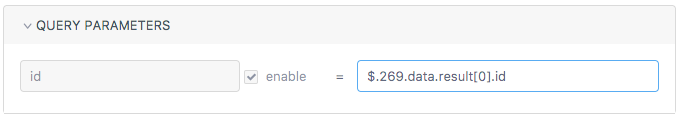
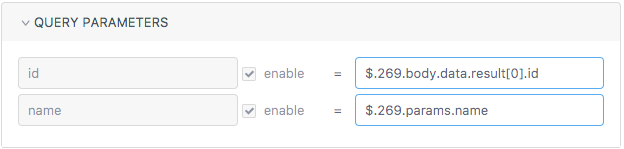
docs: 测试集合的文档

diff --git a/static/doc/case.html b/static/doc/case.html
@@ -170,15 +170,25 @@
 <p>测试完成之后，点击报告查看该次请求的结果</p>
 <h2 class="subject" id="编辑测试用例">编辑测试用例 <a class="hashlink" href="#编辑测试用例">#</a></h2><h3 class="subject" id="Mock参数">Mock参数 <a class="hashlink" href="#Mock参数">#</a></h3><p>Mock 参数每次请求都会生成随机字符串</p>
 <p><img  class="doc-img" style="width:100%" src="./images/usage/case-edit.jpg"  /></p>
-<h4 class="subject" id="变量参数">变量参数 <a class="hashlink" href="#变量参数">#</a></h4><p>YApi 提供了强大的变量参数功能，你可以在测试的时候使用 <code>前面接口的返回值</code> 作为 <code>后面接口的参数</code>，即使接口之间存在依赖，也可以 <strong>一键测试~</strong></p>
-<p>例如：现有两个接口，分别是“导航标题”和“文章列表”</p>
-<p><img class="doc-img" style="width: 678px;" src="./images/usage/case_key_list.png" /></p>
+<h4 class="subject" id="变量参数">变量参数 <a class="hashlink" href="#变量参数">#</a></h4><p>YApi 提供了强大的变量参数功能，你可以在测试的时候使用前面接口的 <code>参数</code> 或 <code>返回值</code> 作为 <code>后面接口的参数</code>，即使接口之间存在依赖，也可以 <strong>一键测试~</strong></p>
+<p>格式：</p>
+<pre><code>$.<span class="token punctuation">{</span>key<span class="token punctuation">}</span>.<span class="token punctuation">{</span>params|body<span class="token punctuation">}</span>.<span class="token punctuation">{</span>path<span class="token punctuation">}</span>
+</code></pre><p>例如：现有两个接口，分别是“导航标题”和“文章列表”
+<img class="doc-img" style="width: 678px;" src="./images/usage/case_key_list.png" /></p>
 <p>文章列表接口需要传参数: <code>当前标题(id)</code>，而这个 id 需要通过 <code>导航标题</code> 的返回值获取，这时应在 <code>文章列表</code> 的参数输入框中根据前者的 key 找到对应 id。</p>
-<p><code>导航标题</code> 的返回值：
-<img class="doc-img" style="width: 122px;" src="./images/usage/case_key_res.png" /></p>
-<p><code>文章列表</code> 的参数配置：
-<img  class="doc-img" style="width: 682px;" src="./images/usage/case_key_query.png" />
-$. 是使用动态变量的标志，<strong>$.269 即表示 key 值为 269 的用例返回的数据</strong>。</p>
+<p><code>导航标题</code> 的参数和返回值有如下结构：</p>
+<div style="margin: 16px 0;">
+  <span style="display: inline-block; width: 60px;vertical-align: top;">参数：</span>
+  <img style="width: 165px;" src="./images/usage/case_key_res_query.png" />
+</div>
+<div style="margin: 16px 0;">
+  <span style="display: inline-block; width: 60px;vertical-align: top;">返回值：</span>
+  <img style="width: 122px;" src="./images/usage/case_key_res.png" />
+</div>
+
+<p>则 <code>文章列表</code> 的参数可以如下配置：
+<img  class="doc-img" style="width: 624px;" src="./images/usage/case_key_query.png" /></p>
+<p>其中 <strong>$.</strong> 是使用 <strong>动态变量</strong> 的标志，$.269.<strong>params</strong> 即表示 key 值为 269 用例的请求参数，$.269.<strong>body</strong> 即表示 key 值为 269 用例的返回值。</p>
 <blockquote>
 <p>Tips: 上下拖动测试集合的列表项可以调整测试的顺序。</p>
 </blockquote>

diff --git a/static/doc/api.html b/static/doc/api.html
@@ -3048,7 +3048,7 @@
     
     <p>
         <small class="text-muted">源码位置:</small>
-        <a href="./static/server/controllers/project.js.html#624" target="_blank">./server/controllers/project.js:624</a>
+        <a href="./static/server/controllers/project.js.html#625" target="_blank">./server/controllers/project.js:625</a>
     </p>
     
     
@@ -3140,7 +3140,7 @@
     
     <p>
         <small class="text-muted">源码位置:</small>
-        <a href="./static/server/controllers/project.js.html#674" target="_blank">./server/controllers/project.js:674</a>
+        <a href="./static/server/controllers/project.js.html#675" target="_blank">./server/controllers/project.js:675</a>
     </p>
     
     
@@ -4502,7 +4502,7 @@
     
     <p>
         <small class="text-muted">源码位置:</small>
-        <a href="./static/server/controllers/interfaceCol.js.html#159" target="_blank">./server/controllers/interfaceCol.js:159</a>
+        <a href="./static/server/controllers/interfaceCol.js.html#162" target="_blank">./server/controllers/interfaceCol.js:162</a>
     </p>
     
     
@@ -4684,7 +4684,7 @@
     
     <p>
         <small class="text-muted">源码位置:</small>
-        <a href="./static/server/controllers/interfaceCol.js.html#299" target="_blank">./server/controllers/interfaceCol.js:299</a>
+        <a href="./static/server/controllers/interfaceCol.js.html#302" target="_blank">./server/controllers/interfaceCol.js:302</a>
     </p>
     
     
@@ -4854,7 +4854,7 @@
     
     <p>
         <small class="text-muted">源码位置:</small>
-        <a href="./static/server/controllers/interfaceCol.js.html#368" target="_blank">./server/controllers/interfaceCol.js:368</a>
+        <a href="./static/server/controllers/interfaceCol.js.html#371" target="_blank">./server/controllers/interfaceCol.js:371</a>
     </p>
     
     
@@ -4916,7 +4916,7 @@
     
     <p>
         <small class="text-muted">源码位置:</small>
-        <a href="./static/server/controllers/interfaceCol.js.html#435" target="_blank">./server/controllers/interfaceCol.js:435</a>
+        <a href="./static/server/controllers/interfaceCol.js.html#438" target="_blank">./server/controllers/interfaceCol.js:438</a>
     </p>
     
     
@@ -4990,7 +4990,7 @@
     
     <p>
         <small class="text-muted">源码位置:</small>
-        <a href="./static/server/controllers/interfaceCol.js.html#477" target="_blank">./server/controllers/interfaceCol.js:477</a>
+        <a href="./static/server/controllers/interfaceCol.js.html#480" target="_blank">./server/controllers/interfaceCol.js:480</a>
     </p>
     
     
@@ -5050,7 +5050,7 @@
     
     <p>
         <small class="text-muted">源码位置:</small>
-        <a href="./static/server/controllers/interfaceCol.js.html#509" target="_blank">./server/controllers/interfaceCol.js:509</a>
+        <a href="./static/server/controllers/interfaceCol.js.html#512" target="_blank">./server/controllers/interfaceCol.js:512</a>
     </p>
     
     

diff --git a/static/doc/static/server/controllers/project.js.html b/static/doc/static/server/controllers/project.js.html
@@ -630,6 +630,7 @@ class projectController extends baseController {
 
             if (!_.isUndefined(params.name)) data.name = params.name;
             if (!_.isUndefined(params.desc)) data.desc = params.desc;
+            if (!_.isUndefined(params.group_id)) data.group_id = params.group_id;
             data.basepath = params.basepath;            
             if (!_.isUndefined(params.color)) data.color = params.color;
             if (!_.isUndefined(params.icon)) data.icon = params.icon;

diff --git a/static/doc/static/server/controllers/interfaceCol.js.html b/static/doc/static/server/controllers/interfaceCol.js.html
@@ -178,6 +178,9 @@ class interfaceColController extends baseController{
                 result.req_params = this.handleParamsValue(data.req_params, result.req_params)
                 resultList[index] = result;
             }
+            resultList = resultList.sort((a,b)=>{
+                return a.index - b.index;
+            });
             ctx.body = yapi.commons.resReturn(resultList);
         } catch (e) {
             ctx.body = yapi.commons.resReturn(null, 402, e.message);

diff --git a/doc/page/usage/case.md b/doc/page/usage/case.md
@@ -20,19 +20,31 @@ Mock 参数每次请求都会生成随机字符串
 
 #### 变量参数
 
-YApi 提供了强大的变量参数功能，你可以在测试的时候使用 `前面接口的返回值` 作为 `后面接口的参数`，即使接口之间存在依赖，也可以 **一键测试~**
+YApi 提供了强大的变量参数功能，你可以在测试的时候使用前面接口的 `参数` 或 `返回值` 作为 `后面接口的参数`，即使接口之间存在依赖，也可以 **一键测试~**
+
+格式：
+```
+$.{key}.{params|body}.{path}
+```
 
 例如：现有两个接口，分别是“导航标题”和“文章列表”
-
 <img class="doc-img" style="width: 678px;" src="./images/usage/case_key_list.png" />
 
 文章列表接口需要传参数: `当前标题(id)`，而这个 id 需要通过 `导航标题` 的返回值获取，这时应在 `文章列表` 的参数输入框中根据前者的 key 找到对应 id。
 
-`导航标题` 的返回值：
-<img class="doc-img" style="width: 122px;" src="./images/usage/case_key_res.png" />
+`导航标题` 的参数和返回值有如下结构：
+<div style="margin: 16px 0;">
+  <span style="display: inline-block; width: 60px;vertical-align: top;">参数：</span>
+  <img style="width: 165px;" src="./images/usage/case_key_res_query.png" />
+</div>
+<div style="margin: 16px 0;">
+  <span style="display: inline-block; width: 60px;vertical-align: top;">返回值：</span>
+  <img style="width: 122px;" src="./images/usage/case_key_res.png" />
+</div>
 
-`文章列表` 的参数配置：
-<img  class="doc-img" style="width: 682px;" src="./images/usage/case_key_query.png" />
-$. 是使用动态变量的标志，**$.269 即表示 key 值为 269 的用例返回的数据**。
+则 `文章列表` 的参数可以如下配置：
+<img  class="doc-img" style="width: 624px;" src="./images/usage/case_key_query.png" />
+
+其中 **$.** 是使用 **动态变量** 的标志，$.269.**params** 即表示 key 值为 269 用例的请求参数，$.269.**body** 即表示 key 值为 269 用例的返回值。
 
 > Tips: 上下拖动测试集合的列表项可以调整测试的顺序。
